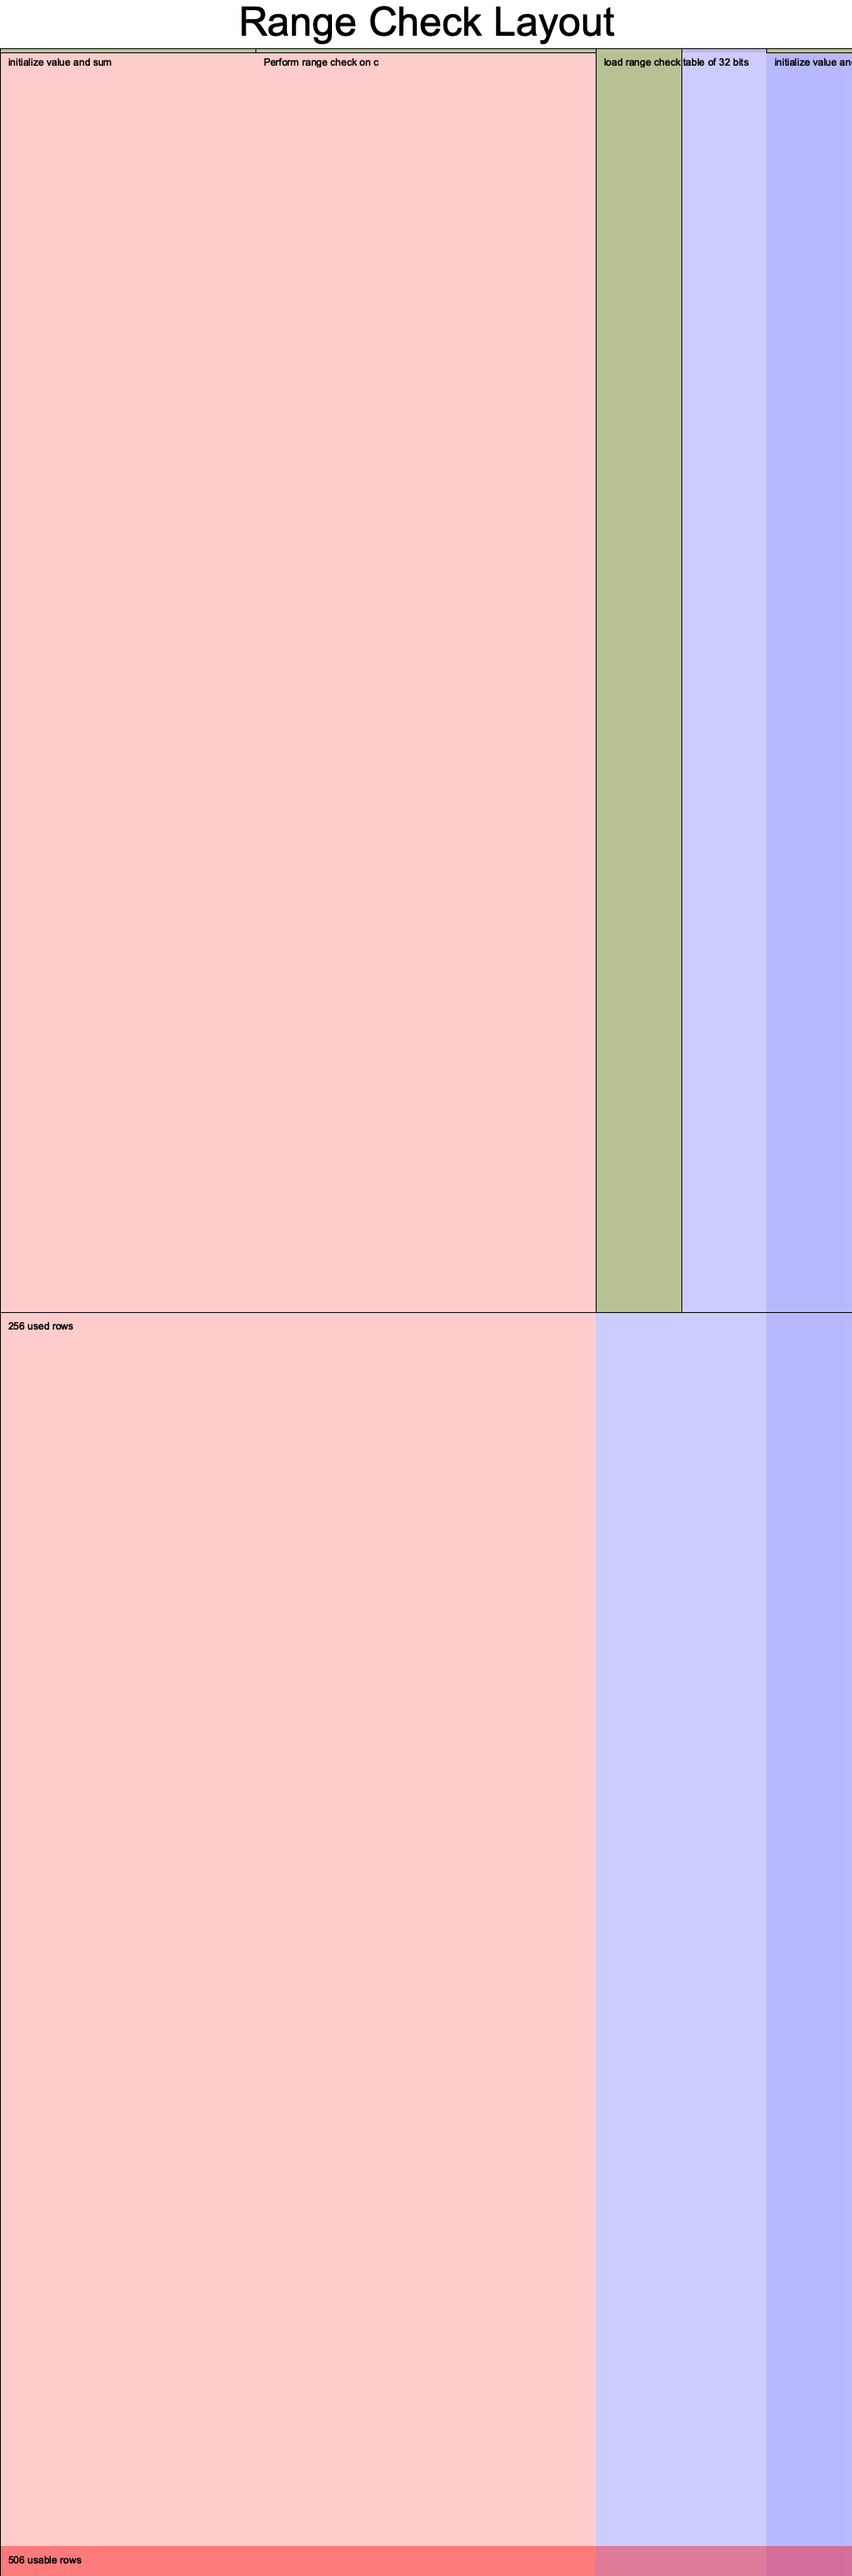
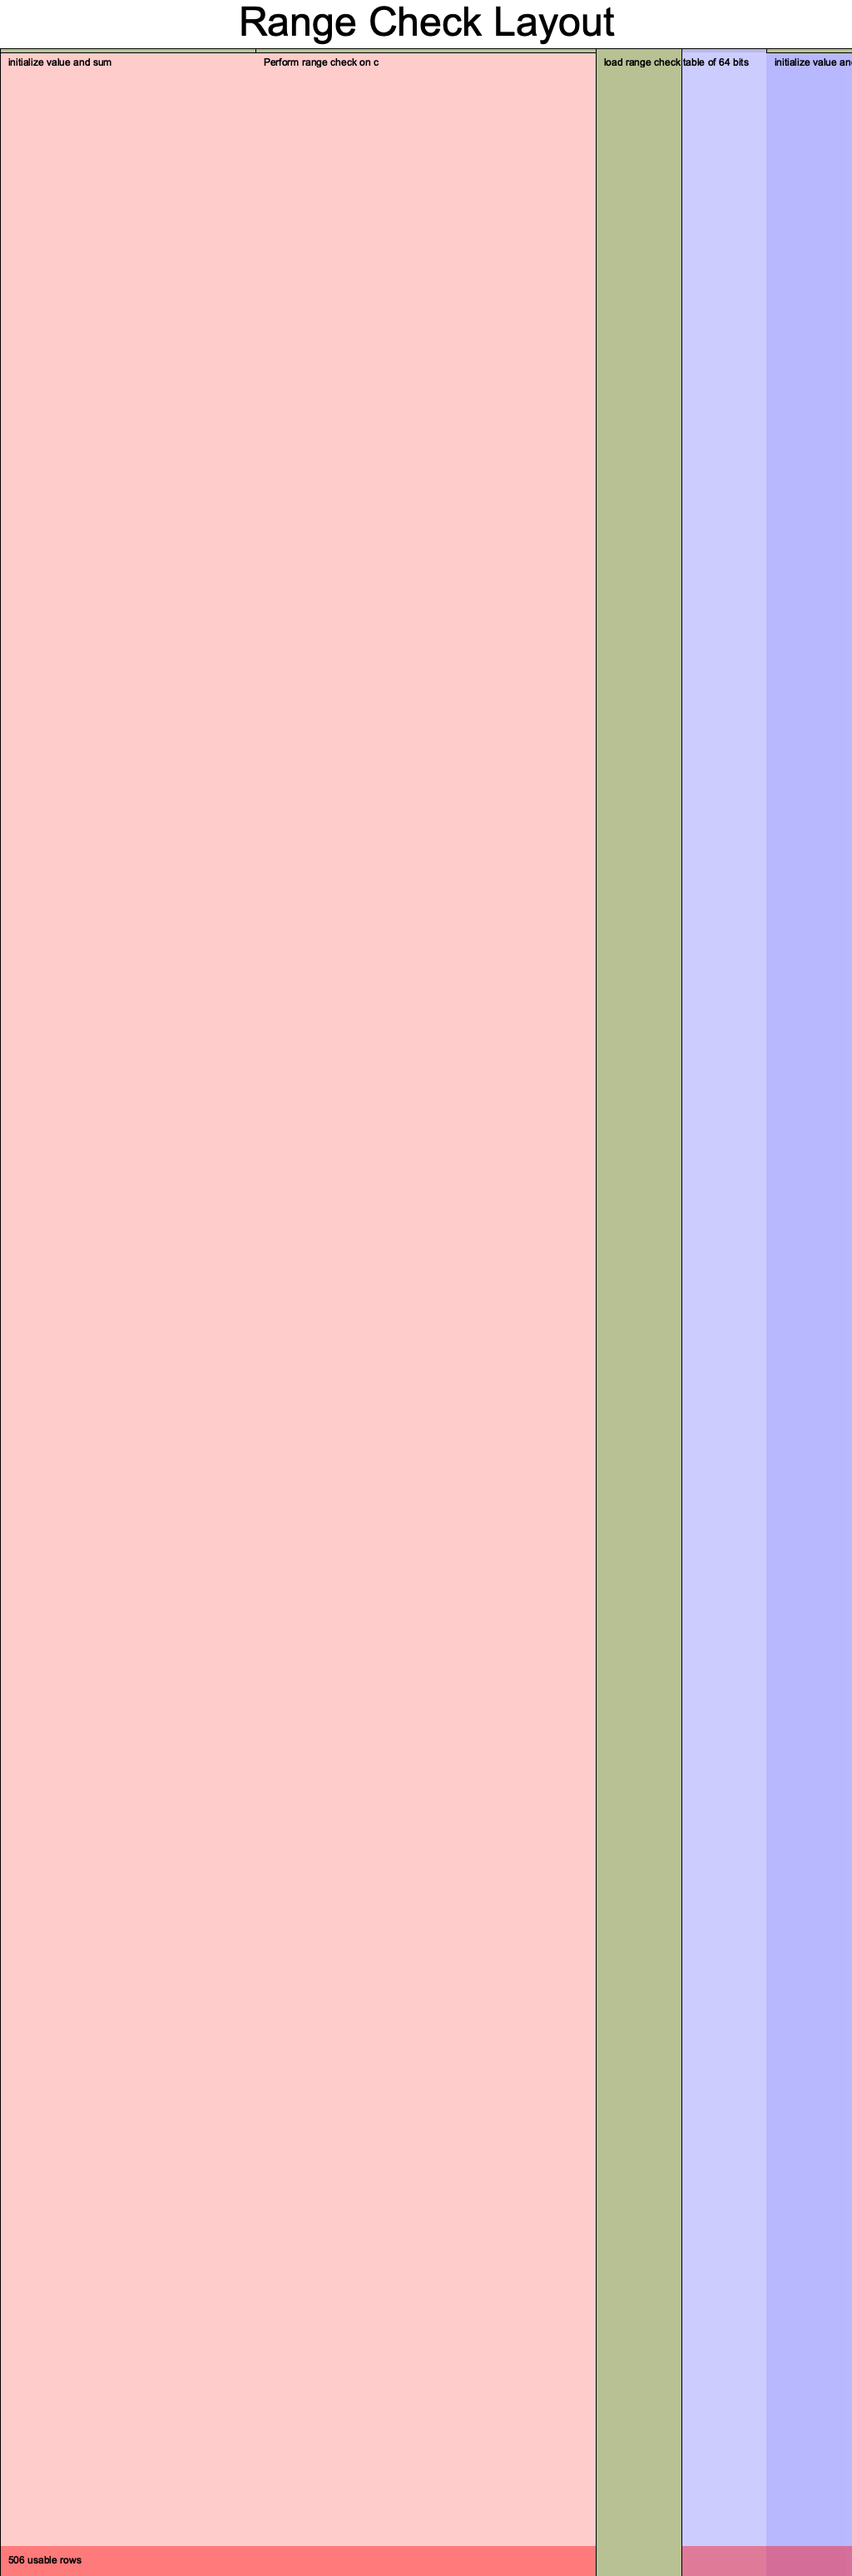
feat: rm `N_BYTES` generic from `range_check`

Changed region(s): [[0.6875, 0.4961, 0.8125, 1.0]]

diff --git a/kzg_prover/src/chips/range/range_check.rs b/kzg_prover/src/chips/range/range_check.rs
@@ -1,65 +1,65 @@
+use crate::chips::range::utils::decompose_fp_to_byte_pairs;
 use halo2_proofs::arithmetic::Field;
 use halo2_proofs::circuit::{AssignedCell, Region, Value};
 use halo2_proofs::halo2curves::bn256::Fr as Fp;
 use halo2_proofs::plonk::{Advice, Column, ConstraintSystem, Error, Expression, Fixed};
 use halo2_proofs::poly::Rotation;
-
 use std::fmt::Debug;
 
-use crate::chips::range::utils::decompose_fp_to_bytes;
-
-/// Configuration for the Range Check Chip
-///
-/// # Type Parameters
-///
-/// * `N_BYTES`: Number of bytes in which the element to be checked should lie
+/// Configuration for the Range Check u64 Chip
+/// Used to verify that an element lies in the u64 range.
 ///
 /// # Fields
 ///
-/// * `zs`: Advice columns - contain the truncated right-shifted values of the element to be checked
+/// * `zs`: Four advice columns - contain the truncated right-shifted values of the element to be checked
+///
+/// # Assumptions
+///
+/// * The lookup table `range_u16` is by default loaded with values from 0 to 2^16 - 1.
 ///
 /// Patterned after [halo2_gadgets](https://github.com/privacy-scaling-explorations/halo2/blob/main/halo2_gadgets/src/utilities/decompose_running_sum.rs)
 #[derive(Debug, Copy, Clone)]
-pub struct RangeCheckConfig<const N_BYTES: usize> {
-    zs: [Column<Advice>; N_BYTES],
+pub struct RangeCheckU64Config {
+    zs: [Column<Advice>; 4],
 }
 
-/// Helper chip that verfiies that the element witnessed in a given cell lies within a given range defined by N_BYTES.
-/// For example, Let's say we want to constraint 0x1f2f3f4f to be within the range N_BYTES=4.
+/// Helper chip that verfiies that the element witnessed in a given cell lies within the u64 range.
+/// For example, Let's say we want to constraint 0x1f2f3f4f5f6f7f8f to be a u64.
+/// Note that the lookup table `range` is by default loaded with values from 0 to 2^16 - 1.
 /// `z` is the advice column that contains the element to be checked.
 ///
-/// `z = 0x1f2f3f4f`
-/// `zs[0] = (0x1f2f3f4f - 0x4f) / 2^8 = 0x1f2f3f`
-/// `zs[1] = (0x1f2f3f - 0x3f) / 2^8 = 0x1f2f`
-/// `zs[2] = (0x1f2f - 0x2f) / 2^8 = 0x1f`
-/// `zs[3] = (0x1f - 0x1f) / 2^8 = 0x00`
+/// `z = 0x1f2f3f4f5f6f7f8f`
+/// `zs[0] = (0x1f2f3f4f5f6f7f8f - 0x7f8f) / 2^16 = 0x1f2f3f4f5f6`
+/// `zs[1] = (0x1f2f3f4f5f6 - 0xf5f6) / 2^16 = 0x1f2f3f4`
+/// `zs[2] = (0x1f2f3f4 - 0x3f4f) / 2^16 = 0x1f2f`
+/// `zs[3] = (0x1f2f - 0x1f2f) / 2^16 = 0x00`
 ///
-///  z          | zs[0]      | zs[1]      | zs[2]      | zs[3]      |
-///  ---------  | ---------- | ---------- | ---------- | ---------- |
-///  0x1f2f3f4f | 0x1f2f3f   | 0x1f2f     | 0x1f       | 0x00       |
+///  z                  | zs[0]           | zs[1]         | zs[2]        | zs[3]      |
+///  ---------          | ----------      | ----------    | ----------   | ---------- |
+///  0x1f2f3f4f5f6f7f8f | 0x1f2f3f4f5f6   | 0x1f2f3f4     | 0x1f2f       | 0x00       |
 ///
-/// Column zs[0], at offset 0, contains the truncated right-shifted value z - ks[0] / 2^8 (shift right by 8 bits) where ks[0] is the 0-th decomposition big-endian of the element to be checked
-/// Column zs[1], at offset 0, contains the truncated right-shifted value zs[0] - ks[1] / 2^8 (shift right by 8 bits) where ks[1] is the 1-th decomposition big-endian of the element to be checked
-/// Column zs[2], at offset 0, contains the truncated right-shifted value zs[1] - ks[2] / 2^8 (shift right by 8 bits) where ks[2] is the 2-th decomposition big-endian of the element to be checked
-/// Column zs[3], at offset 0, contains the truncated right-shifted value zs[2] - ks[3] / 2^8 (shift right by 8 bits) where ks[3] is the 3-th decomposition big-endian of the element to be checked
+/// Column zs[0], at offset 0, contains the truncated right-shifted value z - ks[0] / 2^16 (shift right by 16 bits) where ks[0] is the 0-th decomposition big-endian of the element to be checked
+/// Column zs[1], at offset 0, contains the truncated right-shifted value zs[0] - ks[1] / 2^16 (shift right by 16 bits) where ks[1] is the 1-th decomposition big-endian of the element to be checked
+/// Column zs[2], at offset 0, contains the truncated right-shifted value zs[1] - ks[2] / 2^16 (shift right by 16 bits) where ks[2] is the 2-th decomposition big-endian of the element to be checked
+/// Column zs[3], at offset 0, contains the truncated right-shifted value zs[2] - ks[3] / 2^16 (shift right by 16 bits) where ks[3] is the 3-th decomposition big-endian of the element to be checked
 ///
 /// The contraints that are enforced are:
 /// 1.
-/// z - 2^8⋅zs[0] = ks[0] ∈ lookup_u8
+/// z - 2^16⋅zs[0] = ks[0] ∈ range_u16
 ///
 /// 2.
-/// for i = 0..=N_BYTES - 2:
-///     zs[i] - 2^8⋅zs[i+1] = ks[i]  ∈ lookup_u8
+/// for i = 0..=2:
+///     zs[i] - 2^16⋅zs[i+1] = ks[i]  ∈ range_u16
 ///
 /// 3.
-/// zs[N_BYTES - 1] == 0
+/// zs[3] == 0
 #[derive(Debug, Clone)]
-pub struct RangeCheckChip<const N_BYTES: usize> {
-    config: RangeCheckConfig<N_BYTES>,
+pub struct RangeCheckU64Chip {
+    config: RangeCheckU64Config,
 }
 
-impl<const N_BYTES: usize> RangeCheckChip<N_BYTES> {
-    pub fn construct(config: RangeCheckConfig<N_BYTES>) -> Self {
+impl RangeCheckU64Chip {
+    pub fn construct(config: RangeCheckU64Config) -> Self {
         Self { config }
     }
 
@@ -67,47 +67,45 @@ impl<const N_BYTES: usize> RangeCheckChip<N_BYTES> {
     pub fn configure(
         meta: &mut ConstraintSystem<Fp>,
         z: Column<Advice>,
-        zs: [Column<Advice>; N_BYTES],
-        range: Column<Fixed>,
-    ) -> RangeCheckConfig<N_BYTES> {
-        meta.annotate_lookup_any_column(range, || "LOOKUP_MAXBITS_RANGE");
-
+        zs: [Column<Advice>; 4],
+        range_u16: Column<Fixed>,
+    ) -> RangeCheckU64Config {
         // Constraint that the difference between the element to be checked and the 0-th truncated right-shifted value of the element to be within the range.
-        // z - 2^8⋅zs[0] = ks[0] ∈ lookup_u8
+        // z - 2^16⋅zs[0] = ks[0] ∈ range_u16
         meta.lookup_any(
-            "range u8 check for difference between the element to be checked and the 0-th truncated right-shifted value of the element",
+            "range check in u16 for difference between the element to be checked and the 0-th truncated right-shifted value of the element",
             |meta| {
                 let element = meta.query_advice(z, Rotation::cur());
 
                 let zero_truncation = meta.query_advice(zs[0], Rotation::cur());
 
-                let u8_range = meta.query_fixed(range, Rotation::cur());
+                let u16_range = meta.query_fixed(range_u16, Rotation::cur());
 
-                let diff = element - zero_truncation * Expression::Constant(Fp::from(1 << 8));
+                let diff = element - zero_truncation * Expression::Constant(Fp::from(1 << 16));
 
-                vec![(diff, u8_range)]
+                vec![(diff, u16_range)]
             },
         );
 
-        // For i = 0..=N_BYTES - 2: Constraint that the difference between the i-th truncated right-shifted value and the (i+1)-th truncated right-shifted value to be within the range.
-        // zs[i] - 2^8⋅zs[i+1] = ks[i]  ∈ lookup_u8
-        for i in 0..=N_BYTES - 2 {
+        // For i = 0..=2: Constraint that the difference between the i-th truncated right-shifted value and the (i+1)-th truncated right-shifted value to be within the range.
+        // zs[i] - 2^16⋅zs[i+1] = ks[i]  ∈ range_u16
+        for i in 0..=2 {
             meta.lookup_any(
-                format!("range u8 check for difference between the {}-th truncated right-shifted value and the {}-th truncated right-shifted value", i, i+1).as_str(),
+                format!("range check in u16 for difference between the {}-th truncated right-shifted value and the {}-th truncated right-shifted value", i, i+1).as_str(),
                 |meta| {
                     let i_truncation = meta.query_advice(zs[i], Rotation::cur());
                     let i_plus_one_truncation = meta.query_advice(zs[i + 1], Rotation::cur());
 
-                    let u8_range = meta.query_fixed(range, Rotation::cur());
+                    let u8_range = meta.query_fixed(range_u16, Rotation::cur());
 
-                    let diff = i_truncation - i_plus_one_truncation * Expression::Constant(Fp::from(1 << 8));
+                    let diff = i_truncation - i_plus_one_truncation * Expression::Constant(Fp::from(1 << 16));
 
                     vec![(diff, u8_range)]
                 },
             );
         }
 
-        RangeCheckConfig { zs }
+        RangeCheckU64Config { zs }
     }
 
     /// Assign the truncated right-shifted values of the element to be checked to the corresponding columns zs at offset 0 starting from the element to be checked.
@@ -116,25 +114,25 @@ impl<const N_BYTES: usize> RangeCheckChip<N_BYTES> {
         region: &mut Region<'_, Fp>,
         element: &AssignedCell<Fp, Fp>,
     ) -> Result<(), Error> {
-        // Decompose the element in #N_BYTES bytes
+        // Decompose the element in 4 byte pairs.
         let ks = element
             .value()
             .copied()
-            .map(|x| decompose_fp_to_bytes(x, N_BYTES))
-            .transpose_vec(N_BYTES);
+            .map(|x| decompose_fp_to_byte_pairs(x, 4))
+            .transpose_vec(4);
 
         // Initalize an empty vector of cells for the truncated right-shifted values of the element to be checked.
-        let mut zs = Vec::with_capacity(N_BYTES);
+        let mut zs = Vec::with_capacity(4);
         let mut z = element.clone();
 
-        // Calculate 1 / 2^8
-        let two_pow_eight_inv = Value::known(Fp::from(1 << 8).invert().unwrap());
+        // Calculate 1 / 2^16
+        let two_pow_sixteen_inv = Value::known(Fp::from(1 << 16).invert().unwrap());
 
         // Perform the assignment of the truncated right-shifted values to zs columns.
         for (i, k) in ks.iter().enumerate() {
             let zs_next = {
                 let k = k.map(|byte| Fp::from(byte as u64));
-                let zs_next_val = (z.value().copied() - k) * two_pow_eight_inv;
+                let zs_next_val = (z.value().copied() - k) * two_pow_sixteen_inv;
                 region.assign_advice(
                     || format!("zs_{:?}", i),
                     self.config.zs[i],
@@ -148,7 +146,7 @@ impl<const N_BYTES: usize> RangeCheckChip<N_BYTES> {
         }
 
         // Constrain the final running sum output to be zero.
-        region.constrain_constant(zs[N_BYTES - 1].cell(), Fp::from(0))?;
+        region.constrain_constant(zs[3].cell(), Fp::from(0))?;
 
         Ok(())
     }

diff --git a/kzg_prover/src/chips/range/tests.rs b/kzg_prover/src/chips/range/tests.rs
@@ -1,4 +1,4 @@
-use crate::chips::range::range_check::{RangeCheckChip, RangeCheckConfig};
+use crate::chips::range::range_check::{RangeCheckU64Chip, RangeCheckU64Config};
 use halo2_proofs::{
     circuit::{AssignedCell, Layouter, SimpleFloorPlanner, Value},
     halo2curves::bn256::Fr as Fp,
@@ -85,23 +85,23 @@ impl AddChip {
 }
 
 #[derive(Debug, Clone)]
-pub struct TestConfig<const N_BYTES: usize> {
+pub struct TestConfig {
     pub addchip_config: AddConfig,
-    pub range_check_config: RangeCheckConfig<N_BYTES>,
+    pub range_check_config: RangeCheckU64Config,
     pub range: Column<Fixed>,
 }
 
 // The test circuit takes two inputs a and b.
 // It adds them together by using the add chip to produce c = a + b.
-// Performs a range check on c that should lie in N_BYTES.
+// Performs a range check on c that should lie in [0, 2^64 - 1] range.
 #[derive(Default, Clone, Debug)]
-struct TestCircuit<const N_BYTES: usize> {
+struct TestCircuit {
     pub a: Fp,
     pub b: Fp,
 }
 
-impl<const N_BYTES: usize> Circuit<Fp> for TestCircuit<N_BYTES> {
-    type Config = TestConfig<N_BYTES>;
+impl Circuit<Fp> for TestCircuit {
+    type Config = TestConfig;
     type FloorPlanner = SimpleFloorPlanner;
 
     fn without_witnesses(&self) -> Self {
@@ -122,7 +122,7 @@ impl<const N_BYTES: usize> Circuit<Fp> for TestCircuit<N_BYTES> {
         let constants = meta.fixed_column();
         meta.enable_constant(constants);
 
-        let zs = [(); N_BYTES].map(|_| meta.advice_column());
+        let zs = [(); 4].map(|_| meta.advice_column());
 
         for column in zs.iter() {
             meta.enable_equality(*column);
@@ -130,7 +130,7 @@ impl<const N_BYTES: usize> Circuit<Fp> for TestCircuit<N_BYTES> {
 
         let add_selector = meta.selector();
 
-        let range_check_config = RangeCheckChip::<N_BYTES>::configure(meta, c, zs, range);
+        let range_check_config = RangeCheckU64Chip::configure(meta, c, zs, range);
 
         let addchip_config = AddChip::configure(meta, a, b, c, add_selector);
 
@@ -149,13 +149,13 @@ impl<const N_BYTES: usize> Circuit<Fp> for TestCircuit<N_BYTES> {
         mut layouter: impl Layouter<Fp>,
     ) -> Result<(), Error> {
         // Initiate the range check chip
-        let range_chip = RangeCheckChip::construct(config.range_check_config);
+        let range_chip = RangeCheckU64Chip::construct(config.range_check_config);
 
         // Load the lookup table
-        let range = 1 << 8;
+        let range = 1 << 16;
 
         layouter.assign_region(
-            || format!("load range check table of {} bits", 8 * N_BYTES),
+            || format!("load range check table of 64 bits"),
             |mut region| {
                 for i in 0..range {
                     region.assign_fixed(
@@ -189,77 +189,49 @@ impl<const N_BYTES: usize> Circuit<Fp> for TestCircuit<N_BYTES> {
 
 #[cfg(test)]
 mod testing {
+    use crate::utils::big_uint_to_fp;
+
     use super::TestCircuit;
     use halo2_proofs::{
         dev::{FailureLocation, MockProver, VerifyFailure},
         halo2curves::bn256::Fr as Fp,
         plonk::Any,
     };
+    use num_bigint::BigUint;
 
-    // a = (1 << 16) - 2 = 0xfffe
+    // a = (1 << 64) - 2
     // b = 1
-    // c = a + b = 0xffff
-    // All the values are within 2 bytes range.
+    // c = a + b
+    // c is within 8 bytes range.
     #[test]
-    fn test_none_overflow_16bits() {
-        let k = 9;
+    fn test_none_overflow_64bits() {
+        let k = 17;
 
-        // a: new value
-        let a = Fp::from((1 << 16) - 2);
+        let a = BigUint::from(1_u64) << 64;
+        let a = a - 2_u64;
+        let a = big_uint_to_fp(&a);
         let b = Fp::from(1);
 
-        let circuit = TestCircuit::<2> { a, b };
+        let circuit = TestCircuit { a, b };
         let prover = MockProver::run(k, &circuit, vec![]).unwrap();
         prover.assert_satisfied();
     }
 
-    // a = (1 << 16) - 2 = 0xfffe
+    // a = (1 << 64) - 2
     // b = 2
-    // c = a + b = 0x10000
-    // a and b are within 2 bytes range.
-    // c overflows 2 bytes so the circuit should fail.
+    // c = a + b
+    // c overflows 8 bytes range.
     #[test]
-    fn test_overflow_16bits() {
-        let k = 9;
+    fn test_overflow_64bits() {
+        let k = 17;
 
-        let a = Fp::from((1 << 16) - 2);
+        let a = BigUint::from(1_u64) << 64;
+        let a = a - 2_u64;
+        let a = big_uint_to_fp(&a);
         let b = Fp::from(2);
 
-        let circuit = TestCircuit::<2> { a, b };
+        let circuit = TestCircuit { a, b };
         let invalid_prover = MockProver::run(k, &circuit, vec![]).unwrap();
-        assert_eq!(
-            invalid_prover.verify(),
-            Err(vec![
-                VerifyFailure::Permutation {
-                    column: (Any::Fixed, 1).into(),
-                    location: FailureLocation::OutsideRegion { row: 0 }
-                },
-                VerifyFailure::Permutation {
-                    column: (Any::advice(), 4).into(),
-                    location: FailureLocation::InRegion {
-                        region: (2, "Perform range check on c").into(),
-                        offset: 0
-                    }
-                },
-            ])
-        );
-    }
-
-    // a is the max value within the range (32 bits / 4 bytes)
-    // a = 0x-ff-ff-ff-ff
-    // b = 1
-    // a and b are within 4 bytes range.
-    // c overflows 4 bytes so the circuit should fail.
-    #[test]
-    fn test_overflow_32bits() {
-        let k = 9;
-
-        let a = Fp::from(0xffffffff);
-        let b = Fp::from(1);
-
-        let circuit = TestCircuit::<4> { a, b };
-        let invalid_prover = MockProver::run(k, &circuit, vec![]).unwrap();
-
         assert_eq!(
             invalid_prover.verify(),
             Err(vec![
@@ -290,7 +262,7 @@ mod testing {
             .titled("Range Check Layout", ("sans-serif", 60))
             .unwrap();
 
-        let circuit = TestCircuit::<4> {
+        let circuit = TestCircuit {
             a: Fp::from(0x1f2f3f4f),
             b: Fp::from(1),
         };

diff --git a/kzg_prover/src/lib.rs b/kzg_prover/src/lib.rs
@@ -6,7 +6,7 @@
 /// Zk circuit subcomponents aka chips.
 pub mod chips;
 /// Zk circuits with a full prover and verifier. A circuit can be viewed as an assembly of chips.
-pub mod circuits;
+// pub mod circuits;
 pub mod cryptocurrency;
 pub mod entry;
 /// Utilities to build the merkle sum tree data structure. No zk proof in here.
